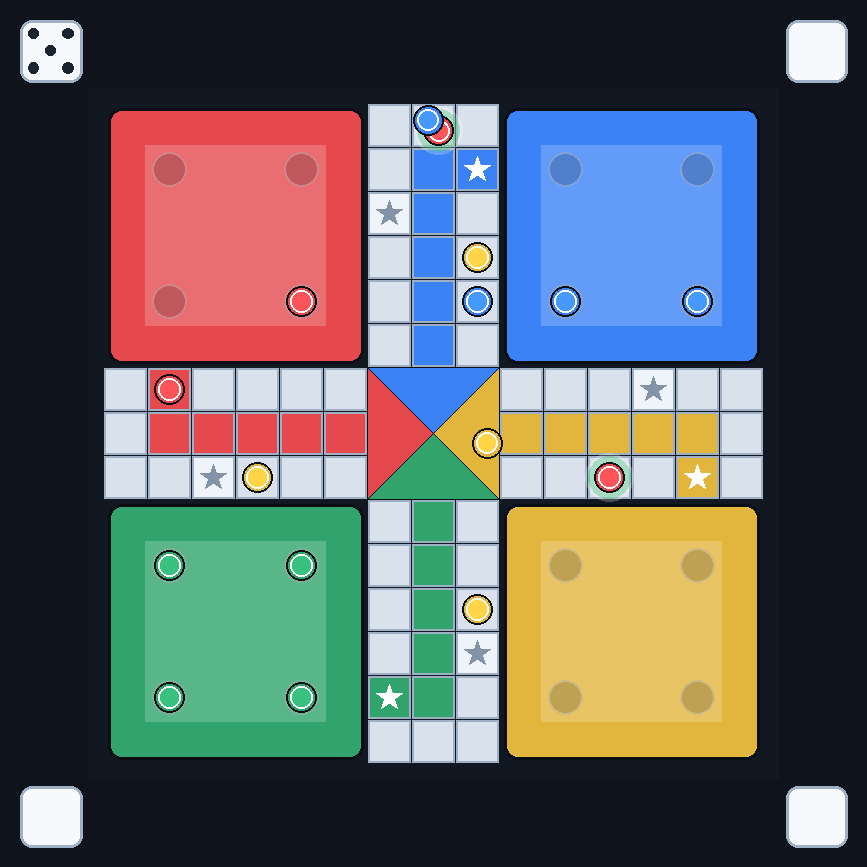
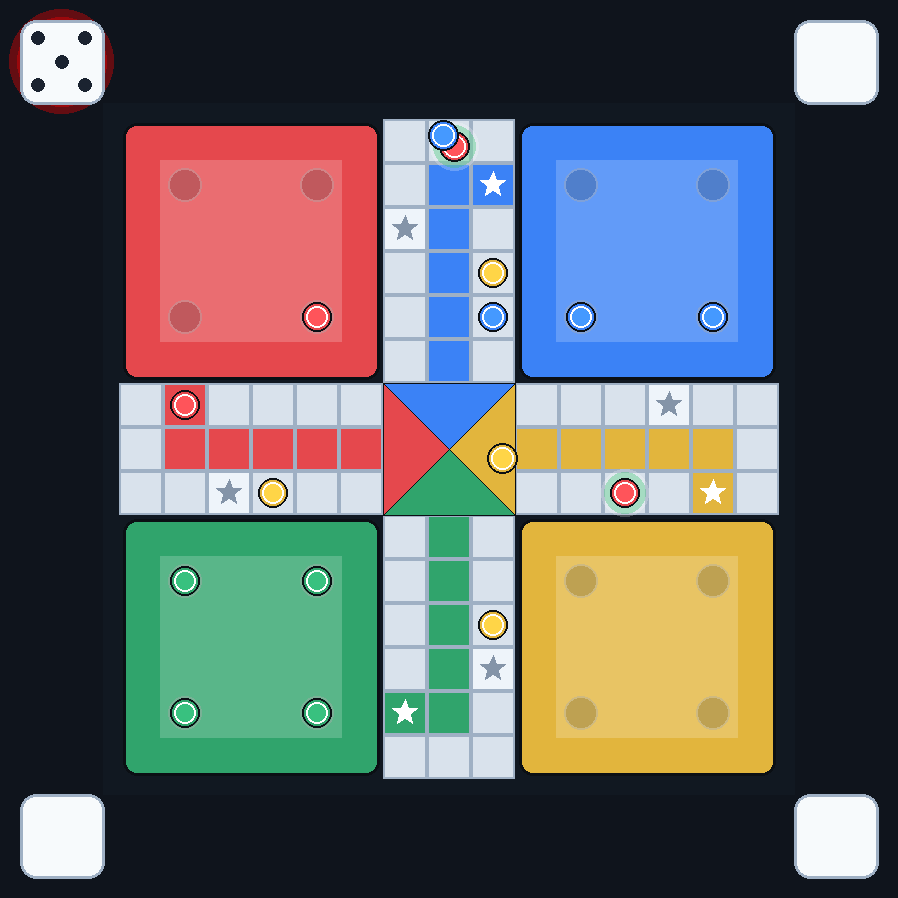
Le numéro tiré reste lisible, dé en surbrillance, IA plus rapide
Quatre demandes, dont une qui touchait aux règles.

**Le numéro n'était jamais publié quand il n'y avait pas de coup.** `Game.roll`
résolvait tout dans le même appel : sans coup possible il passait la main
aussitôt, et avec un seul coup il l'enchaînait. Le client ne voyait donc qu'un
état déjà terminé, et le dé restait vide — d'où « on ne voit pas les chiffres ».

`Game.roll` publie désormais le lancer tel quel. C'est le serveur qui le résout
500 ms plus tard, via `Game.auto_resolve?/1` et `Game.resolve_roll/1`, ce qui
laisse le temps de lire le numéro avant que la main ne passe. Les simulations de
tests font la même chose.

**Le dé du joueur en cours porte un halo à sa couleur**, en plus de son
soubresaut.

**Les dés sont plus grands** (1,9 case au lieu de 1,4) avec des points plus gros :
à 1,4 les points étaient trop petits pour être lus. Le plateau occupe 74 % de la
hauteur au lieu de 76 %.

**Le délai de l'IA passe de 1–3 s à 0,5–1 s.**

Vérifications ajoutées : pour chaque valeur de 1 à 6, le dessus du dé montre
exactement ce nombre de points — c'est la vérification qui manquait pour dire
« on ne voit pas les chiffres », et elle contrôle l'orientation réelle du cube,
pas seulement l'intention. Plus la taille du dé et de ses points par rapport au
cadre, et la présence du halo sur le seul dé du joueur en cours.

Le parcours WebSocket ne compte plus les attentes comme des tours : avec la
résolution différée, sa boucle s'épuisait en attendant le serveur.
[…]

diff --git a/priv/static/assets/js/board3d.js b/priv/static/assets/js/board3d.js
@@ -35,9 +35,9 @@ const SPREAD = 0.17; // écartement de plusieurs pions sur une même case
 // taille d'origine : il est dimensionné par rapport au plateau.
 // Un dé par joueur, posé en diagonale à l'extérieur de son camp. Le dé d'un
 // joueur qui n'a pas la main — ou qui a fini de jouer — reste blanc, sans point.
-const DICE_SIZE = 1.4;
+const DICE_SIZE = 1.9;
 const DICE_Y = DICE_SIZE / 2 + 0.03;
-const DICE_OFFSET = BOARD / 2 + 0.5 + DICE_SIZE / 2;
+const DICE_OFFSET = BOARD / 2 + 0.35 + DICE_SIZE / 2;
 
 // Étendue à couvrir : le plateau et les quatre dés.
 const VIEW_TOP = -(DICE_OFFSET + DICE_SIZE / 2 + 0.45);
@@ -422,9 +422,9 @@ function buildDiceFor(color) {
 
   const pips = [];
 
-  for (const [, spots, normal, face] of layout) {
+  for (const [value, spots, normal, face] of layout) {
     for (const [u, v] of spots) {
-      const pip = new THREE.Mesh(new THREE.SphereGeometry(0.062 * k, 12, 10), pipMat);
+      const pip = new THREE.Mesh(new THREE.SphereGeometry(0.078 * k, 12, 10), pipMat);
       const pu = u * k;
       const pv = v * k;
 
@@ -432,12 +432,30 @@ function buildDiceFor(color) {
       else if (face[1] !== 0) pip.position.set(pu, normal[1], pv);
       else pip.position.set(pu, pv, normal[2]);
 
-      pip.userData = { kind: "pip", color };
+      // la face est étiquetée : le test vérifie ainsi que le dessus du dé
+      // montre bien le nombre de points attendu
+      pip.userData = { kind: "pip", color, face: value };
       pip.visible = false; // blanc tant que le joueur n'a rien lancé
       pips.push(pip);
       pivot.add(pip);
     }
   }
+
+  // halo coloré : le dé du joueur en cours se repère d'un coup d'œil
+  const halo = new THREE.Mesh(
+    new THREE.RingGeometry(size * 0.62, size * 0.8, 40),
+    new THREE.MeshBasicMaterial({
+      color: new THREE.Color(geo.colors[color]),
+      transparent: true,
+      opacity: 0.9,
+      side: THREE.DoubleSide
+    })
+  );
+  halo.rotation.x = -Math.PI / 2;
+  halo.position.y = 0.02;
+  halo.visible = false;
+  halo.userData = { kind: "dice-halo", color };
+  group.add(halo);
 
   // chaque camp est dans un coin : le dé se pose en diagonale, à l'extérieur
   const [bx, by] = geo.base_areas[color];
@@ -452,6 +470,7 @@ function buildDiceFor(color) {
     group,
     pivot,
     pips,
+    halo,
     target: new THREE.Quaternion(),
     value: null,
     rolling: false
@@ -696,6 +715,11 @@ export function update(state, myColor) {
   }
 
   activeDice.color = state.status === "playing" ? state.turn_color : null;
+
+  // halo uniquement sous le dé du joueur en cours
+  for (const [color, node] of diceByColor) {
+    node.halo.visible = color === activeDice.color;
+  }
 }
 
 /**
@@ -715,9 +739,16 @@ function updateSimulation(dt) {
       node.pivot.quaternion.slerp(node.target, Math.min(1, dt * 9));
     }
 
-    // le dé du joueur en cours respire légèrement, les autres restent posés
+    // le dé du joueur en cours respire, et son halo pulse
     const actif = node.color === activeDice.color;
-    node.group.position.y = DICE_Y + (actif ? Math.sin(performance.now() / 700) * 0.06 + 0.05 : 0);
+    const temps = performance.now();
+
+    node.group.position.y = DICE_Y + (actif ? Math.sin(temps / 700) * 0.06 + 0.05 : 0);
+
+    if (node.halo.visible) {
+      const battement = 1 + 0.08 * Math.sin(temps / 320);
+      node.halo.scale.setScalar(battement);
+    }
   }
 
   // pulsation de la base du joueur dont c'est le tour
@@ -946,6 +977,40 @@ export function project(point) {
 export function diceValue() {
   const node = diceByColor.get(activeDice.color);
   return node ? node.value : null;
+}
+
+/**
+ * Points situés sur le dessus du dé, pour une couleur donnée.
+ *
+ * Sert à vérifier que le dé montre bien le nombre attendu quand on le regarde
+ * d'au-dessus — c'est tout l'intérêt d'un dé vu de dessus.
+ */
+export function diceTopPips(color) {
+  const node = diceByColor.get(color);
+  if (!node) return [];
+
+  root.updateMatrixWorld(true);
+  const point = new THREE.Vector3();
+
+  const places = node.pips
+    .filter((pip) => pip.visible)
+    .map((pip) => ({ pip, y: pip.getWorldPosition(point).y }));
+
+  if (places.length === 0) return [];
+
+  const sommet = Math.max(...places.map((entry) => entry.y));
+
+  // seuls les points posés sur la face du dessus : ils sont tous à la même
+  // hauteur, au sommet du cube
+  return places
+    .filter((entry) => entry.y > sommet - 0.05)
+    .map((entry) => entry.pip.userData.face);
+}
+
+/** Vrai si le halo du dé de cette couleur est visible. */
+export function diceHighlighted(color) {
+  const node = diceByColor.get(color);
+  return Boolean(node && node.halo.visible);
 }
 
 /** Valeur affichée par chaque dé, couleur par couleur (vérifications). */

diff --git a/README.md b/README.md
@@ -52,10 +52,16 @@ orthographique, donc le plateau reste un carré parfait à l'écran, quel que so
 son contenu.
 
 **Chaque joueur a son dé, posé à l'extérieur de son camp** (en diagonale, dans le
-coin). Un dé dont le joueur n'a pas la main — ou qui vient de jouer son pion —
-reste **blanc**, sans aucun point : seul le dé du joueur en cours montre sa
-valeur, le temps qu'il joue son coup. Cliquer sur le dé d'un autre joueur ne fait
-rien.
+coin), et le dé du joueur en cours porte un **halo à sa couleur**. Un dé dont le
+joueur n'a pas la main — ou qui vient de jouer son pion — reste **blanc**, sans
+aucun point : seul le dé du joueur en cours montre sa valeur, le temps qu'il joue
+son coup. Cliquer sur le dé d'un autre joueur ne fait rien.
+
+Quand le joueur ne peut pas jouer — aucun coup possible, ou un seul que le
+serveur enchaîne — le numéro reste affiché **500 ms** avant que la main ne passe.
+Sans cette pause il disparaîtrait aussitôt, sans que personne ait pu le lire :
+c'est le serveur qui publie le lancer, puis le résout (`Ludo.Game.auto_resolve?/1`
+et `resolve_roll/1`).
 
 Le dé du panneau latéral suit la même règle et porte un liseré à la couleur du
 joueur dont c'est le tour.
@@ -137,7 +143,7 @@ Quelques partis pris qui expliquent la structure :
 * **Un processus par partie.** Toutes les actions passent par des `call`
   adressés au `GameServer`, ce qui supprime toute condition de course entre
   joueurs d'un même salon.
-* **L'IA marque une pause.** Elle tire un délai aléatoire de 1 à 3 secondes
+* **L'IA marque une pause.** Elle tire un délai aléatoire de 0,5 à 1 seconde
   avant chaque action (`GameServer.bot_delay/0`) : sans cela elle enchaîne le
   dé et le déplacement trop vite pour qu'on puisse lire le numéro qu'elle vient
   de faire.
@@ -181,7 +187,7 @@ node scripts/ws_smoke.mjs     # 29 vérifications en WebSocket réel
 # client, sans navigateur
 mix run -e 'IO.puts(Jason.encode!(Ludo.Board.geometry()))' 2>/dev/null | tail -1 > /tmp/geometry.json
 node scripts/geometry_check.mjs /tmp/geometry.json   # 37 vérifications : panneau, dé, bannière
-node scripts/three_check.mjs /tmp/geometry.json      # 58 vérifications : scène, cadrage, dé
+node scripts/three_check.mjs /tmp/geometry.json      # 79 vérifications : scène, cadrage, dés, clic
 
 # aperçu du plateau hors navigateur (voir l'en-tête de scripts/dump_board_top.mjs)
 node scripts/dump_board_top.mjs /tmp/geometry.json /tmp/board_top.json
